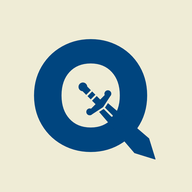
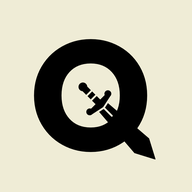
update

Changed region(s): [[0.1562, 0.1875, 0.8125, 0.8438]]

diff --git a/index.html b/index.html
@@ -61,9 +61,6 @@ label{display:block;font-size:13px;color:var(--mu);margin:16px 0 7px}
 @keyframes fade{from{opacity:0}}@keyframes up{from{transform:translateY(60%)}}
 .igrid{display:grid;grid-template-columns:repeat(auto-fill,minmax(42px,1fr));gap:6px}
 .igrid button{padding:0;min-width:0;aspect-ratio:1;border-radius:10px;border:2px solid transparent;background:var(--card);font-size:20px}.igrid button.on{border-color:var(--ac)}
-.hm{display:grid;grid-template-rows:repeat(7,1fr);grid-auto-flow:column;gap:3px;overflow-x:auto}
-.hm i{width:14px;height:14px;border-radius:3px;background:var(--card2)}
-.hm i.l1{background:color-mix(in srgb,var(--ac) 35%,var(--card2))}.hm i.l2{background:color-mix(in srgb,var(--ac) 70%,var(--card2))}.hm i.l3{background:var(--ac)}.hm i.x{background:color-mix(in srgb,var(--bad) 45%,var(--card2))}
 .pw{width:100%;accent-color:var(--ac)}
 .bar{height:8px;background:var(--card2);border-radius:9px;position:relative;margin:12px 0 4px}.bar div{height:100%;background:var(--ac);border-radius:9px;transition:width .4s}.bar u{position:absolute;top:-4px;width:2px;height:16px;background:var(--warn)}
 .me{display:flex;align-items:center;gap:14px;background:var(--card);border-radius:var(--r);padding:16px;box-shadow:var(--sh)}.me .ic{width:60px;height:60px;border-radius:20px;background:var(--ac);color:var(--on)}.me svg{width:32px;height:32px}
@@ -92,13 +89,13 @@ label{display:block;font-size:13px;color:var(--mu);margin:16px 0 7px}
 .ic{color:var(--mu)}
 .ck svg{display:block;margin:auto;width:22px;height:22px}
 .ds{font-size:13px;color:var(--mu);margin-top:3px;line-height:1.35;display:-webkit-box;-webkit-line-clamp:2;-webkit-box-orient:vertical;overflow:hidden;overflow-wrap:anywhere}
-.hero{width:100%;aspect-ratio:4/3;max-height:46vh;border-radius:16px;overflow:hidden;background:var(--card2);display:grid;place-items:center;color:var(--mu)}.hero img{width:100%;height:100%;object-fit:cover}.hero svg{width:64px;height:64px}
+.hero{width:min(100%,46vh);aspect-ratio:1/1;margin:0 auto;border-radius:16px;overflow:hidden;background:var(--card2);display:grid;place-items:center;color:var(--mu)}.hero img{width:100%;height:100%;object-fit:cover}.hero svg{width:64px;height:64px}
 .full{white-space:pre-wrap;overflow-wrap:anywhere;line-height:1.5;margin:12px 0 0;color:var(--tx)}.full.none{color:var(--mu)}
 .imgrow{display:flex;gap:12px;align-items:flex-start}.imgrow .ic{flex:none;width:72px;height:72px;border-radius:16px}
 .hint{font-size:12px;color:var(--mu);margin-top:6px;line-height:1.4}
 textarea{resize:vertical;min-height:84px;line-height:1.4}
-.gear{transition:transform .15s}.gear:active{transform:scale(.88)}.gear:not(.bk):active svg{transform:rotate(90deg)}.gear.bk:active svg{transform:translateX(-3px)}
-.gear.spin:not(.bk) svg{animation:spin .5s cubic-bezier(.4,0,.2,1)}@keyframes spin{to{transform:rotate(360deg)}}
+.gear{transition:transform .15s}.gear:active{transform:scale(.88)}.gear.bk:active svg{transform:translateX(-3px)}
+.gear.spin:not(.bk) svg{animation:spin .45s ease-out}@keyframes spin{to{transform:rotate(90deg)}}
 .nrow{display:flex;align-items:center;gap:8px}.nrow .nm{flex:1;min-width:0}.nrow .st{flex:none;margin:0}
 .card .ic{align-self:stretch;width:72px;height:auto;min-height:64px;border-radius:14px}
 @media(prefers-reduced-motion:reduce){*{animation:none!important;transition:none!important}}
@@ -126,14 +123,14 @@ const PH='<svg viewBox="0 0 24 24"><rect x="3" y="3" width="18" height="18" rx="
 const CHK='<svg viewBox="0 0 24 24"><path d="m5 12 5 5 9-10"/></svg>';
 const ICO_H='<svg viewBox="0 0 24 24"><circle cx="12" cy="12" r="9"/><path d="m8 12 3 3 5-6"/></svg>';
 const ICO_B='<svg viewBox="0 0 24 24"><path d="M5 21V4M5 4h11l-2 4 2 4H5"/></svg>';
-const THEMES={Teal:174,Forest:140,Ocean:200,Jade:158};
+const THEMES={Teal:174,Ocean:200,Black:0};
 const COIN='<svg class="cn" viewBox="0 0 24 24"><circle cx="12" cy="12" r="10" fill="#f5b83d" stroke="#a8680f"/><circle cx="12" cy="12" r="6.6" fill="#fbd36b" stroke="#a8680f"/><path d="M12 8 16 12 12 16 8 12Z" fill="#a8680f" stroke="none"/></svg>';
 const cap=t=>t?t[0].toUpperCase()+t.slice(1):'';
 const UI='<svg viewBox="0 0 24 24"><circle cx="12" cy="8" r="4"/><path d="M4 21c1-4 4-6 8-6s7 2 8 6"/></svg>';
 const DAYS=['Sun','Mon','Tue','Wed','Thu','Fri','Sat'];
-const def=()=>({habits:[],tags:['hygiene','health','fitness','mind','work','social'],theme:'Ocean',mode:'light',fx:true,music:false,vol:.4,game:{on:true,coins:0,exp:0,per:100},shop:[],owned:[],bosses:[]});
+const def=()=>({habits:[],tags:['hygiene','health','fitness','mind','work','social'],theme:'Black',fx:true,music:false,vol:.4,game:{on:true,coins:0,exp:0,per:100},shop:[],owned:[],bosses:[]});
 let S;try{S=JSON.parse(localStorage.getItem(K))||def()}catch{S=def()}
-S={...def(),...S};S.game={...def().game,...S.game};
+S={...def(),...S};delete S.mode;if(!THEMES.hasOwnProperty(S.theme))S.theme='Black';S.game={...def().game,...S.game};
 const save=()=>{try{localStorage.setItem(K,JSON.stringify(S))}catch{toast('Storage is full. Remove some images.')}};
 const t12=t=>{if(!t)return'';const h=+t.slice(0,2),m=t.slice(3,5);return (h%12||12)+':'+m+(h<12?' AM':' PM')};
 const pad=n=>String(n).padStart(2,'0');
@@ -146,14 +143,14 @@ const esc=s=>String(s??'').replace(/[&<>"]/g,c=>({'&':'&amp;','<':'&lt;','>':'&g
 const uid=()=>Date.now().toString(36)+Math.random().toString(36).slice(2,6);
 const get=id=>S.habits.find(h=>h.id==id);
 const live=h=>h.status=='training'||h.status=='review';
-let tab=0,lf={st:'all',kind:'all',tag:'all',q:''},hv='active',hmId=null,draft=null;
+let tab=0,lf={st:'all',kind:'all',tag:'all',q:''},hv='active',draft=null;
 
 function toast(m){const t=$('#toast');t.textContent=m;t.classList.add('on');setTimeout(()=>t.classList.remove('on'),1800)}
-function applyTheme(){const h=THEMES[S.theme]||200,fx=S.fx!==false;let m=S.mode||'light';if(m=='system')m=matchMedia('(prefers-color-scheme:light)').matches?'light':'dark';
- const d=m=='dark';let v=d?{bg:`hsl(${h} 55% 7%)`,card:`hsl(${h} 42% 12%)`,card2:`hsl(${h} 38% 19%)`,ac:`hsl(${h} 70% 55%)`,on:`hsl(${h} 80% 8%)`,tx:`hsl(${h} 60% 94%)`,mu:`hsl(${h} 18% 63%)`,sh:'0 4px 14px #0005',warn:'#fde047',org:'#fb923c',bad:'#fb7185'}
+function applyTheme(){const fx=S.fx!==false,h=THEMES[S.theme]??0,bk=S.theme=='Black';
+ let v=bk?{bg:'hsl(0 0% 95%)',card:'#fff',card2:'hsl(0 0% 90%)',ac:'#111',on:'#fff',tx:'hsl(0 0% 8%)',mu:'hsl(0 0% 36%)',sh:'0 2px 10px #0002',warn:'#a16207',org:'#c2410c',bad:'#be123c'}
  :{bg:`hsl(${h} 30% 95%)`,card:'#fff',card2:`hsl(${h} 28% 90%)`,ac:`hsl(${h} 85% 26%)`,on:'#fff',tx:`hsl(${h} 45% 10%)`,mu:`hsl(${h} 14% 38%)`,sh:`0 2px 10px hsl(${h} 30% 30%/.13)`,warn:'#a16207',org:'#c2410c',bad:'#be123c'};
- if(fx)v=d?{...v,bg:'hsl(28 22% 8%)',card:'hsl(28 20% 13%)',card2:'hsl(28 18% 20%)',tx:'hsl(40 45% 92%)',mu:'hsl(36 15% 64%)'}:{...v,bg:'hsl(40 40% 89%)',card:'hsl(42 55% 95%)',card2:'hsl(38 35% 84%)',tx:'hsl(28 40% 14%)',mu:'hsl(30 18% 34%)',sh:'0 2px 10px hsl(30 40% 30%/.16)'};
- const r=document.documentElement.style;for(const k in v)r.setProperty('--'+k,v[k]);r.colorScheme=m;$('#tc').content=v.bg}
+ if(fx)v={...v,bg:'hsl(40 40% 89%)',card:'hsl(42 55% 95%)',card2:'hsl(38 35% 84%)',tx:'hsl(28 40% 14%)',mu:'hsl(30 18% 34%)',sh:'0 2px 10px hsl(30 40% 30%/.16)'};
+ const r=document.documentElement.style;for(const k in v)r.setProperty('--'+k,v[k]);r.colorScheme='light';$('#tc').content=v.bg}
 const G=()=>true;
 function lv(){const p=S.game.per||100,e=S.game.exp;return{l:Math.floor(e/p)+1,cur:e%p,p}}
 function give(c,x){if(!G())return;const a=lv().l;S.game.coins=Math.max(0,S.game.coins+c);S.game.exp=Math.max(0,S.game.exp+x);const b=lv().l;
@@ -264,7 +261,6 @@ function musicOff(){MU.run=0;clearInterval(MU.tm);if(MU.out)MU.out.gain.value=0;
 function setMusic(on){S.music=on;save();on?musicOn():musicOff();render()}
 function setVol(v){S.vol=+v;save();if(MU.out&&MU.run)MU.out.gain.value=S.vol*.5;if(MU.el)MU.el.volume=S.vol}
 document.addEventListener('visibilitychange',()=>{if(S.music)document.hidden?musicOff():musicOn()});
-const MODES=['light','dark','system'];
 let sd={},pd={};
 const sec=(t,b)=>`<section class="sec"><h2>${t}</h2>${b}</section>`;
 const tog=(k,v,l)=>`<button class="chip ${v?'on':''}" onclick="${k}">${l}</button>`;
@@ -275,21 +271,18 @@ function lastRef(i){const t=today(),b=i.base||t;if(i.mode=='every'){const n=i.n|
  for(let k=0;k<62;k++){const d=addD(t,-k),x=dt(d);if(i.mode=='week'&&(i.days||[]).includes(x.getDay()))return d;if(i.mode=='month'&&x.getDate()==(i.dom||1))return d}return null}
 function refreshShop(){let c=0;S.shop.forEach(i=>{if(['every','week','month'].includes(i.mode)){const r=lastRef(i);if(r&&(i.last||'0')<r){i.left=i.max;i.last=r;c=1}}});if(c)save()}
 let gv='guild';
-function spinGo(b,v){b.classList.add('spin');setTimeout(()=>{gv=v;render()},b.classList.contains('bk')?120:320)}
+function spinGo(b,v){if(b.classList.contains('spin'))return;b.classList.add('spin');setTimeout(()=>{gv=v;render()},b.classList.contains('bk')?120:450)}
 const GEAR=(()=>{const n=8,s=Math.PI/n,P=(a,r)=>[(12+r*Math.sin(a)).toFixed(2),(12-r*Math.cos(a)).toFixed(2)];let d='';
 for(let i=0;i<n;i++){const a=i*2*s,p=[P(a-s*.62,7.6),P(a-s*.36,10.4),P(a+s*.36,10.4),P(a+s*.62,7.6)];
 d+=(i?'':'M'+p[0].join(' '))+'L'+p[1].join(' ')+'L'+p[2].join(' ')+'L'+p[3].join(' ')+'A7.6 7.6 0 0 1 '+P(a+2*s-s*.62,7.6).join(' ')}
 return `<svg viewBox="0 0 24 24"><path d="${d}Z"/><circle cx="12" cy="12" r="3"/></svg>`})(),BACK='<svg viewBox="0 0 24 24"><path d="m15 5-7 7 7 7"/></svg>';
 function renderProfile(){if(gv=='set')return renderSettings();
- const act=S.habits.filter(h=>h.type=='active'&&h.status!='pending');if(!hmId||!get(hmId))hmId=act[0]?.id;
  refreshShop();const g=S.game,L=lv();let o='';
  o+=sec(`Merchant shop · ${COIN} ${g.coins}`,(S.shop.length?S.shop.map(i=>{const lk=g.exp<i.req,out=!inf(i)&&(i.left??i.max)<=0,no=lk||out||g.coins<i.cost;return `<div class="card ${lk?'lock':''}">${icon(i)}<div class="grow" onclick="openShop('${i.id}')"><div class="nm">${esc(i.name)}</div><div class="sub">${COIN} ${i.cost}${i.req?` · ${lk?'Locked, needs':'needs'} ${i.req} exp`:''}</div><div class="sub">${stockTxt(i)}</div></div><button class="btn" ${no?'disabled':''} onclick="buy('${i.id}')">${out?'Sold out':'Buy'}</button></div>`}).join(''):'<p class="note">No rewards yet. Tap the button below to add one.</p>')+`<button class="btn" style="width:100%" onclick="openShop()">Add reward</button>`);
  if(S.owned.length)o+=sec('Your rewards',S.owned.map(w=>`<div class="card">${icon(w)}<div class="grow" style="cursor:default"><div class="nm">${esc(w.name)}</div><div class="sub">Bought ${w.date}</div></div><button class="btn g" onclick="useItem('${w.id}')">Use</button></div>`).join(''));
- o+=sec('Quest accomplishments',act.length?`<select onchange="hmId=this.value;renderProfile()" style="margin-bottom:12px">${act.map(h=>`<option value="${h.id}" ${h.id==hmId?'selected':''}>${esc(h.name)}</option>`).join('')}</select><div class="hm">${heat(get(hmId))}</div>`:'<p class="note" style="margin:0">Train an active habit to see your accomplishments.</p>');
  $('#t2').innerHTML=`<div class="top"><h1>Guild</h1><button class="gear" style="margin-left:auto" onclick="spinGo(this,'set')" aria-label="Settings">${GEAR}</button></div><div class="me"><div class="ic" onclick="openProfile()" style="cursor:pointer">${thumb(S.avatar,UI)}</div><div class="grow"><div class="nm" style="font-size:18px">${esc(S.name||'Adventurer')}</div><div class="sub">Level ${L.l} · ${g.exp} total exp · ${S.habits.filter(h=>h.status=='complete').length} habits mastered</div></div><button class="btn g" onclick="openProfile()">Edit</button></div>`+o}
 function renderSettings(){const ms=missedList(),g=S.game;let o='';
- o+=sec('Appearance',`<div class="chips">${MODES.map(m=>tog(`S.mode='${m}';save();render()`,(S.mode||'light')==m,m)).join('')}</div>
-  <label>Color theme</label><div class="chips">${Object.keys(THEMES).map(t=>tog(`S.theme='${t}';save();render()`,S.theme==t,t)).join('')}</div>
+ o+=sec('Appearance',`<label>Color theme</label><div class="chips">${Object.keys(THEMES).map(t=>tog(`S.theme='${t}';save();render()`,S.theme==t,t)).join('')}</div>
   <label>Medieval adventure style</label><div class="chips">${tog("S.fx=true;save();render()",S.fx!==false,'On')}${tog("S.fx=false;save();render()",S.fx===false,'Off')}</div>`);
  o+=sec('Music',`<div class="chips">${tog("setMusic(true)",!!S.music,'On')}${tog("setMusic(false)",!S.music,'Off')}</div>
   <label>Volume</label><input class="pw" type="range" min="0" max="100" value="${Math.round((S.vol??.4)*100)}" oninput="setVol(this.value/100)">
@@ -356,17 +349,6 @@ function saveBoss(){const d=bd;if(!d.name.trim())return toast('Give the boss bat
 function delBoss(id){if(!confirm('Delete this boss battle?'))return;S.bosses=S.bosses.filter(x=>x.id!=id);save();closeM();render()}
 function openBL(id){bl={id,amt:1};const b=S.bosses.find(x=>x.id==id);$('#sh').innerHTML=`<h1>${esc(b.name)}</h1><label>Add progress (${esc(b.unit||'units')})</label><input type="number" min="1" value="1" oninput="bl.amt=+this.value"><div class="row" style="margin-top:22px"><button class="btn g" onclick="closeM()">Cancel</button><button class="btn" onclick="addBL()">Add</button></div>`;$('#md').classList.add('on')}
 function addBL(){const b=S.bosses.find(x=>x.id==bl.id),a=Math.floor(bl.amt);if(!(a>0))return;b.prog=(b.prog||0)+a;save();closeM();render()}
-function heat(h){if(!h)return'';const t=today(),w=(dt(t).getDay()),start=addD(t,-(18*7+w-7+7)+7-7),n=18*7+w+1;let o='';
- for(let i=0;i<n;i++){const d=addD(t,-(n-1-i)),need=dueOn(h,d),v=h.logs?.[d]||0;let c='';
-  if(d>t)continue;if(v){const r=need?v/need:1;c=r>=1?'l3':r>=.5?'l2':'l1'}else if(need&&d<t)c='x';
-  o+=`<i class="${c}" title="${d}"></i>`}return o}
-function addTag(t){t=(t||'').trim().toLowerCase();if(t&&!S.tags.includes(t)){S.tags.push(t);save();render()}}
-function delTag(t){S.tags=S.tags.filter(x=>x!=t);S.habits.forEach(h=>h.tags=(h.tags||[]).filter(x=>x!=t));save();render()}
-
-/* ---- editor ---- */
-function edit(id){const h=id?get(id):{id:uid(),name:'',desc:'',type:'active',status:'pending',tags:[],sched:{mode:'daily',count:1},pct:0,target:80,pxp:1,coins:5,exp:10,logs:{},isNew:1};
- draft=JSON.parse(JSON.stringify(h));drawEd();$('#md').classList.add('on')}
-function closeM(){$('#md').classList.remove('on')}
 function cancelEd(){draft.isNew?closeM():openView(draft.id)}
 function cancelBoss(){bd.id?openBossView(bd.id):closeM()}
 function openView(id){const h=get(id);if(!h)return;

diff --git a/sw.js b/sw.js
@@ -1,4 +1,4 @@
-const C='questbits-v10',A=['./','./index.html','./manifest.webmanifest'];
+const C='questbits-v11',A=['./','./index.html','./manifest.webmanifest'];
 self.addEventListener('install',e=>{e.waitUntil(caches.open(C).then(c=>c.addAll(A)));self.skipWaiting()});
 self.addEventListener('activate',e=>{e.waitUntil(caches.keys().then(k=>Promise.all(k.filter(x=>x!==C).map(x=>caches.delete(x)))));self.clients.claim()});
 self.addEventListener('fetch',e=>{if(e.request.method!=='GET')return;
